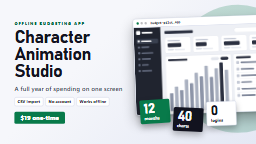
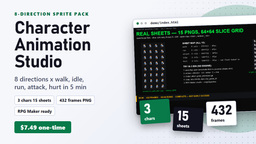
Wave E builders (--by Maxim 2026-10-06): official SHIP all 6 judges + O-056/57 adopted + next batch audits PASS

diff --git a/designs/O-056/page.html b/designs/O-056/page.html
@@ -79,23 +79,23 @@
 <body data-oid="cover.hero">
 <div class="stage">
   <div class="copy">
-    <div class="kicker">Offline budgeting app</div>
+    <div class="kicker">8-DIRECTION SPRITE PACK</div>
     <h1 data-oid="cover.title">Character Animation Studio</h1>
-    <p class="claim" data-oid="cover.subtitle">A full year of spending on one screen</p>
-    <ul class="chips"><li>CSV import</li><li>No account</li><li>Works offline</li></ul>
-    <span class="cta" data-oid="cover.cta">$19 one-time</span>
+    <p class="claim" data-oid="cover.subtitle">8 directions x walk, idle, run, attack, hurt in 5 min</p>
+    <ul class="chips"><li>3 chars 15 sheets</li><li>432 frames PNG</li><li>RPG Maker ready</li></ul>
+    <span class="cta" data-oid="cover.cta">$7.49 one-time</span>
   </div>
   <div class="art">
     <div class="halo"></div>
     <div class="dots"></div>
     <div class="frame">
-      <div class="bar"><i></i><i></i><i></i><span class="name">budget-pilot.app</span></div>
-      <div class="vp"><img src="assets/shot.png" alt="The app running in a browser"></div>
+      <div class="bar"><i></i><i></i><i></i><span class="name">demo/index.html</span></div>
+      <div class="vp"><img src="assets/shot.png" alt="The 8-direction sprite sheets"></div>
     </div>
     <div class="stats">
-      <div class="stat s1" data-n="12"><b>12</b>months</div>
-      <div class="stat s2" data-n="40"><b>40</b>charts</div>
-      <div class="stat s3" data-n="0"><b>0</b>logins</div>
+      <div class="stat s1" data-n="3"><b>3</b>chars</div>
+      <div class="stat s2" data-n="15"><b>15</b>sheets</div>
+      <div class="stat s3" data-n="432"><b>432</b>frames</div>
     </div>
 
   </div>

diff --git a/designs/O-057/page.html b/designs/O-057/page.html
@@ -79,23 +79,23 @@
 <body data-oid="cover.hero">
 <div class="stage">
   <div class="copy">
-    <div class="kicker">Offline budgeting app</div>
+    <div class="kicker">8-DIRECTION SPRITES</div>
     <h1 data-oid="cover.title">Sci-Fi Crew Vol 2</h1>
-    <p class="claim" data-oid="cover.subtitle">A full year of spending on one screen</p>
-    <ul class="chips"><li>CSV import</li><li>No account</li><li>Works offline</li></ul>
+    <p class="claim" data-oid="cover.subtitle">3 crew x 5 actions x 8 directions, RPG Maker ready</p>
+    <ul class="chips"><li>3 crew 15 sheets</li><li>432 frames PNG</li><li>RPG Maker ready</li></ul>
     <span class="cta" data-oid="cover.cta">$19 one-time</span>
   </div>
   <div class="art">
     <div class="halo"></div>
     <div class="dots"></div>
     <div class="frame">
-      <div class="bar"><i></i><i></i><i></i><span class="name">budget-pilot.app</span></div>
-      <div class="vp"><img src="assets/shot.png" alt="The app running in a browser"></div>
+      <div class="bar"><i></i><i></i><i></i><span class="name">preview/index.html</span></div>
+      <div class="vp"><img src="assets/shot.png" alt="The crew in all 8 directions"></div>
     </div>
     <div class="stats">
-      <div class="stat s1" data-n="12"><b>12</b>months</div>
-      <div class="stat s2" data-n="40"><b>40</b>charts</div>
-      <div class="stat s3" data-n="0"><b>0</b>logins</div>
+      <div class="stat s1" data-n="3"><b>3</b>crew</div>
+      <div class="stat s2" data-n="15"><b>15</b>sheets</div>
+      <div class="stat s3" data-n="432"><b>432</b>frames</div>
     </div>
 
   </div>

diff --git a/designs/O-057/art.html b/designs/O-057/art.html
@@ -1,11 +1,11 @@
     <div class="halo"></div>
     <div class="dots"></div>
     <div class="frame">
-      <div class="bar"><i></i><i></i><i></i><span class="name">budget-pilot.app</span></div>
-      <div class="vp"><img src="assets/shot.png" alt="The app running in a browser"></div>
+      <div class="bar"><i></i><i></i><i></i><span class="name">preview/index.html</span></div>
+      <div class="vp"><img src="assets/shot.png" alt="The crew in all 8 directions"></div>
     </div>
     <div class="stats">
-      <div class="stat s1" data-n="12"><b>12</b>months</div>
-      <div class="stat s2" data-n="40"><b>40</b>charts</div>
-      <div class="stat s3" data-n="0"><b>0</b>logins</div>
+      <div class="stat s1" data-n="3"><b>3</b>crew</div>
+      <div class="stat s2" data-n="15"><b>15</b>sheets</div>
+      <div class="stat s3" data-n="432"><b>432</b>frames</div>
     </div>

diff --git a/designs/O-056/art.html b/designs/O-056/art.html
@@ -1,11 +1,11 @@
     <div class="halo"></div>
     <div class="dots"></div>
     <div class="frame">
-      <div class="bar"><i></i><i></i><i></i><span class="name">budget-pilot.app</span></div>
-      <div class="vp"><img src="assets/shot.png" alt="The app running in a browser"></div>
+      <div class="bar"><i></i><i></i><i></i><span class="name">demo/index.html</span></div>
+      <div class="vp"><img src="assets/shot.png" alt="The 8-direction sprite sheets"></div>
     </div>
     <div class="stats">
-      <div class="stat s1" data-n="12"><b>12</b>months</div>
-      <div class="stat s2" data-n="40"><b>40</b>charts</div>
-      <div class="stat s3" data-n="0"><b>0</b>logins</div>
+      <div class="stat s1" data-n="3"><b>3</b>chars</div>
+      <div class="stat s2" data-n="15"><b>15</b>sheets</div>
+      <div class="stat s3" data-n="432"><b>432</b>frames</div>
     </div>

diff --git a/designs/O-015/page.html b/designs/O-015/page.html
@@ -66,7 +66,7 @@
     <h1 data-oid="cover.title">Medieval Warriors Vol 4</h1>
     <p class="claim" data-oid="cover.subtitle">True 8-direction sprite sheets, plain PNG</p>
     <ul class="chips"><li>3 warriors</li><li>5 actions x 8 directions</li><li>432 frames</li><li>Playable browser demo</li></ul>
-    <span class="cta" data-oid="cover.cta">$29 one-time</span>
+    <span class="cta" data-oid="cover.cta">$19 one-time</span>
   </div>
   <div class="art">
     <div class="moon"></div>

diff --git a/designs/O-056/DESIGN-REVIEW.md b/designs/O-056/DESIGN-REVIEW.md
@@ -6,7 +6,7 @@ Sample: C:\Users\me\Desktop\design-studio\designs\O-056\brief.json
 ## Score
 
 - [x] brief-complete: Character Animation Studio 1280x720
-- [x] render-exists: 1280x720 234466B
+- [x] render-exists: 1280x720 290210B
 - [x] audit-green: fresh auditBrief PASS
 - [x] contrast-aa: title:17.2, subtitle:8.2, cta:5.4, chip:18.4, kicker:6.2
 - [x] thumbnail-legible: 17.6px at 256px (floor 12px), pixels in thumb-256.png 256x144 — human verdict: title reads at listing size

diff --git a/designs/O-015/DESIGN-REVIEW.md b/designs/O-015/DESIGN-REVIEW.md
@@ -6,7 +6,7 @@ Sample: C:\Users\me\Desktop\design-studio\designs\O-015\brief.json
 ## Score
 
 - [x] brief-complete: Medieval Warriors Vol 4 1280x720
-- [x] render-exists: 1280x720 80084B
+- [x] render-exists: 1280x720 79866B
 - [x] audit-green: fresh auditBrief PASS
 - [x] contrast-aa: title:16.7, subtitle:13.6, cta:10.8, chip:15.0, kicker:10.8
 - [x] thumbnail-legible: 18.4px at 256px (floor 12px), pixels in thumb-256.png 256x144 — human verdict: title reads at listing size

diff --git a/designs/O-057/DESIGN-REVIEW.md b/designs/O-057/DESIGN-REVIEW.md
@@ -6,7 +6,7 @@ Sample: C:\Users\me\Desktop\design-studio\designs\O-057\brief.json
 ## Score
 
 - [x] brief-complete: Sci-Fi Crew Vol 2 1280x720
-- [x] render-exists: 1280x720 230244B
+- [x] render-exists: 1280x720 249341B
 - [x] audit-green: fresh auditBrief PASS
 - [x] contrast-aa: title:17.2, subtitle:8.2, cta:5.4, chip:18.4, kicker:6.2
 - [x] thumbnail-legible: 20.8px at 256px (floor 12px), pixels in thumb-256.png 256x144 — human verdict: title reads at listing size
